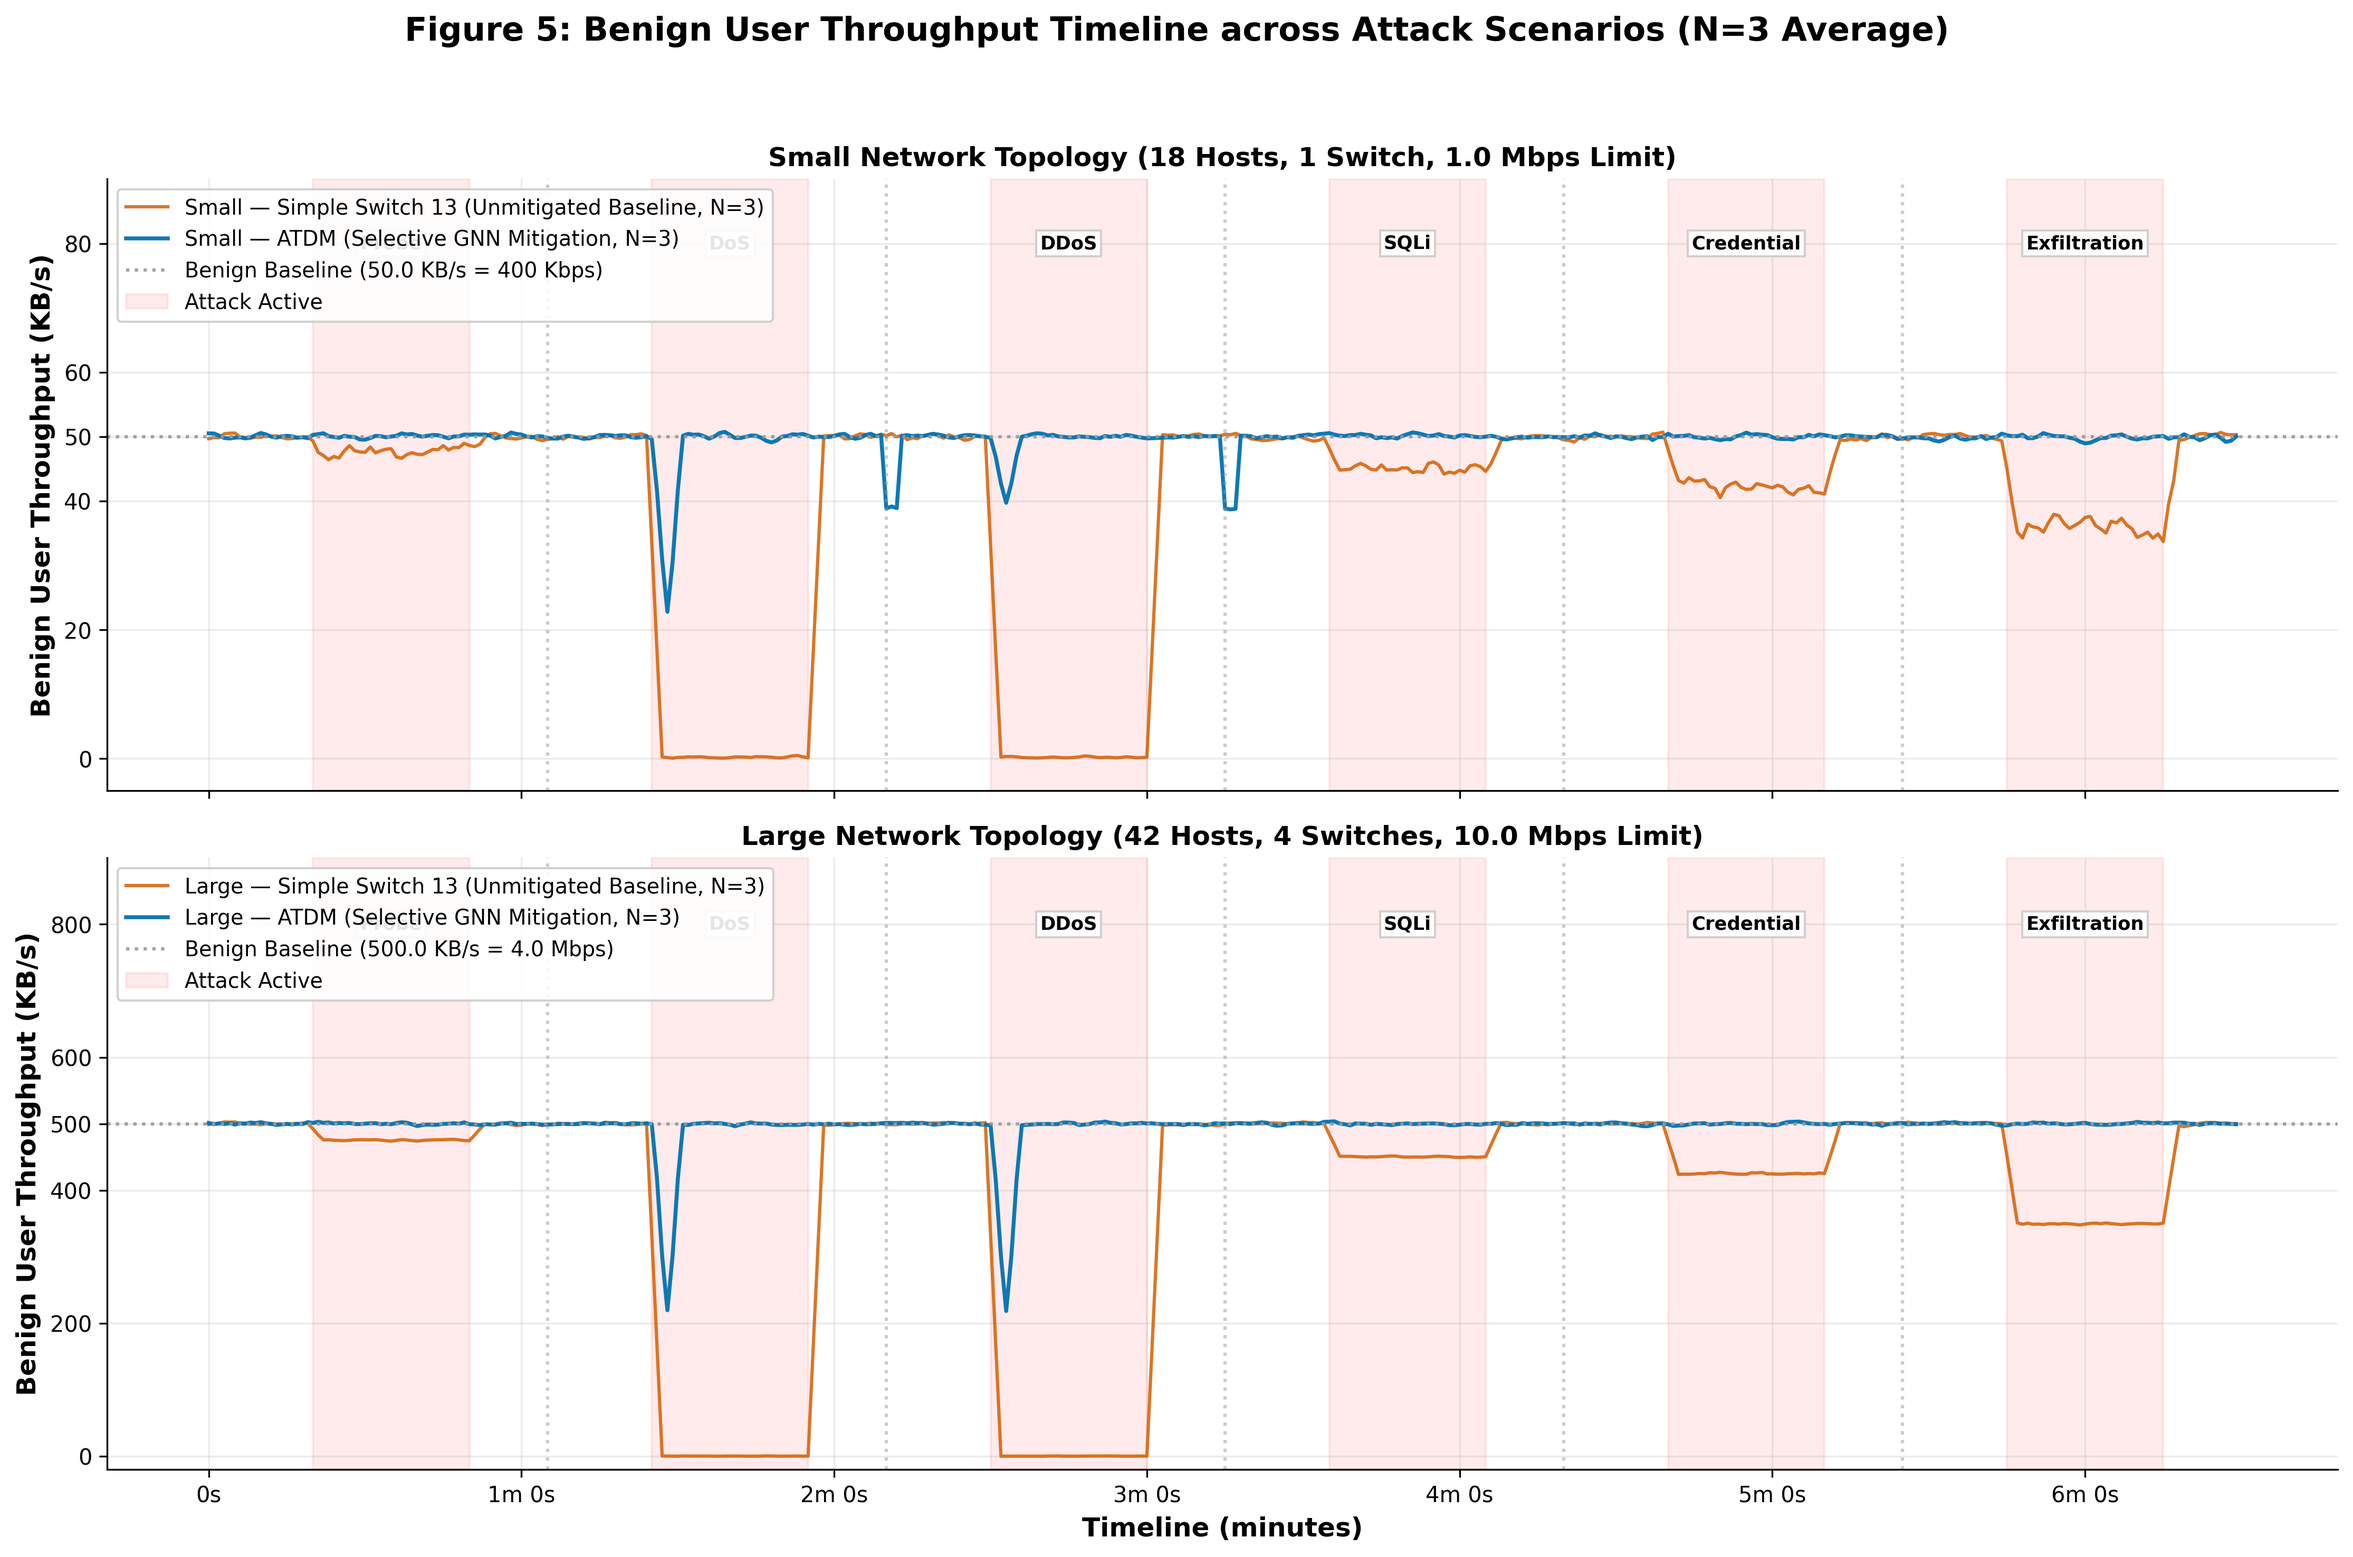
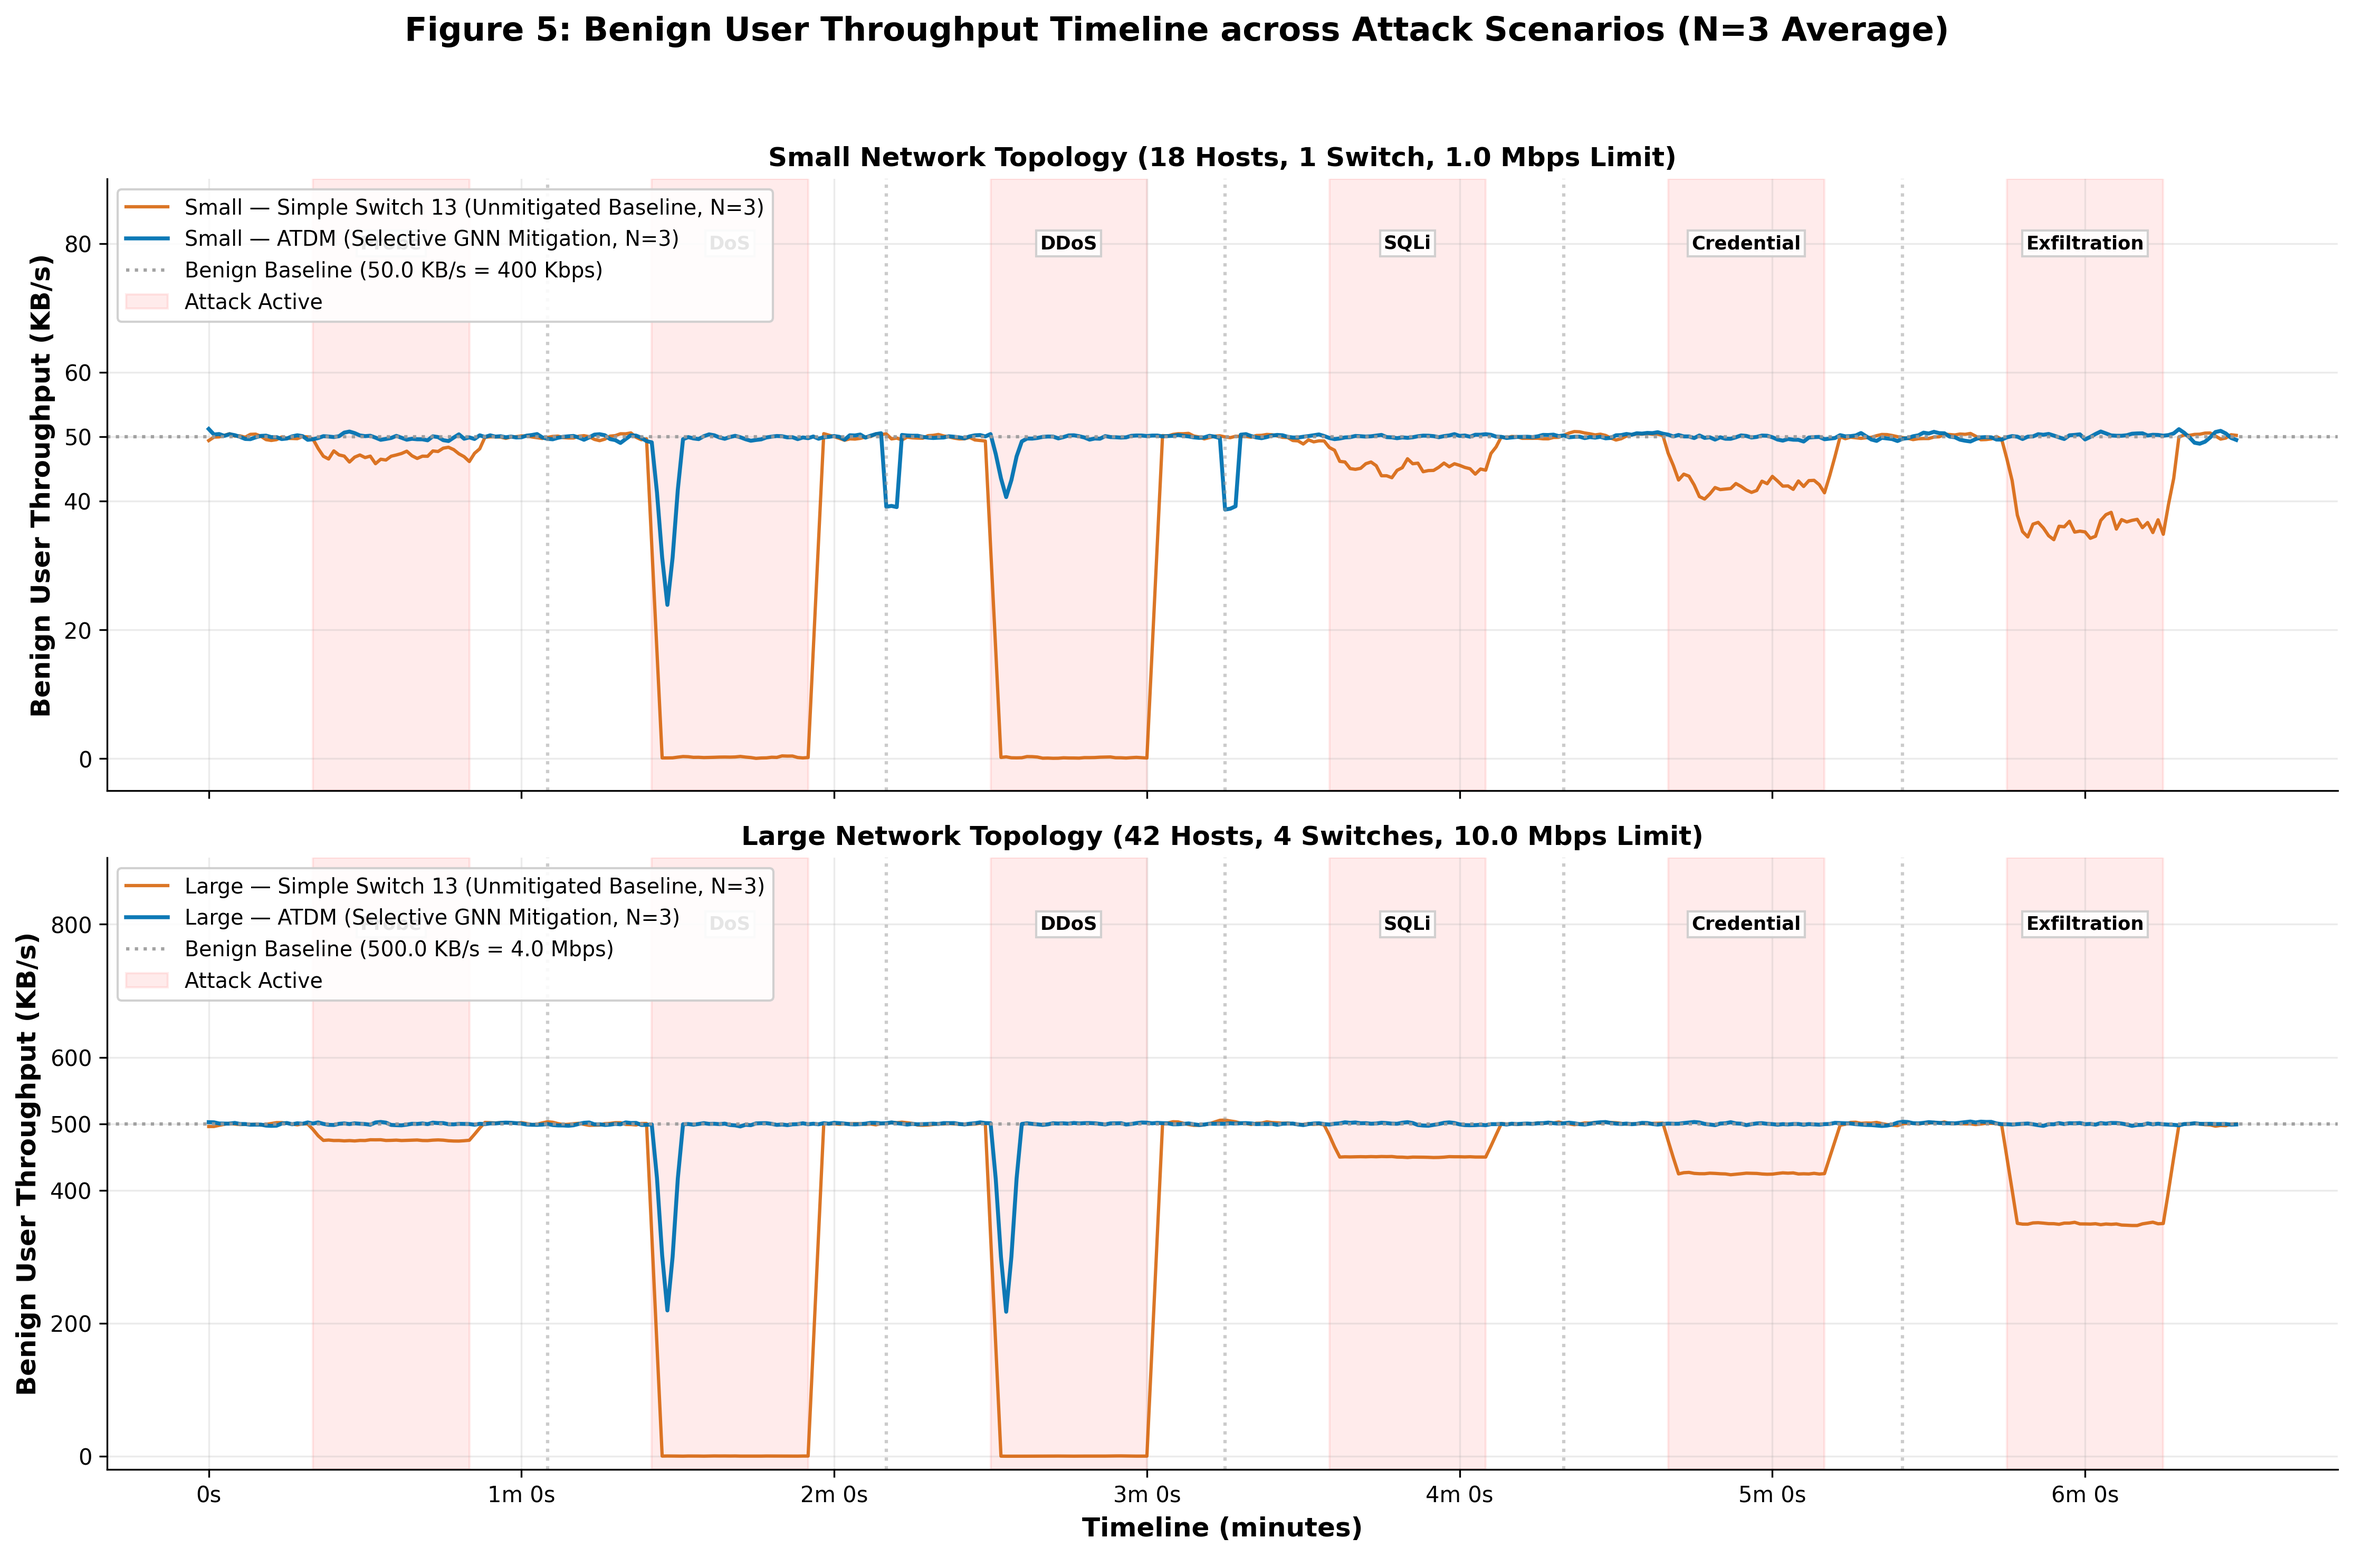
fix(benchmark): resolve root causes of constant latency timeline and hardcoded attacker target IPs

diff --git a/backend/benchmark/traffic/attack_generator.py b/backend/benchmark/traffic/attack_generator.py
@@ -100,36 +100,43 @@ class AttackGenerator:
     # Attack implementations
     # ------------------------------------------------------------------
 
+    def _get_target_ips(self, net, target_ip):
+        if net is None:
+            return [target_ip]
+        servers = [h for h in net.hosts if h.name.startswith("ws") or h.name.startswith("db") or h.name in ("h3", "h5", "h6")]
+        return [s.IP() for s in servers] if servers else [target_ip]
+
     def _start_probe(self, net, target_ip, target_port, cfg):
         hosts = self._get_attackers(net, count=1)
-        for h in hosts:
-            cmd = f"hping3 -S -p {target_port} --scan 1-1024 -i u500000 {target_ip}"
+        t_ips = self._get_target_ips(net, target_ip)
+        for i, h in enumerate(hosts):
+            t_ip = t_ips[i % len(t_ips)]
+            cmd = f"hping3 -S -p {target_port} --scan 1-1024 -i u500000 {t_ip}"
             self._spawn(h, cmd)
 
     def _start_dos(self, net, target_ip, target_port, cfg):
         attackers = self._get_attackers(net, count=None)
-        servers = [h for h in net.hosts if h.name.startswith("ws") or h.name.startswith("db") or h.name in ("h3", "h5", "h6")]
-        target_ips = [s.IP() for s in servers] if servers else [target_ip]
+        t_ips = self._get_target_ips(net, target_ip)
 
         for i, h in enumerate(attackers):
-            t_ip = target_ips[i % len(target_ips)]
+            t_ip = t_ips[i % len(t_ips)]
             # Flooding SYN packet attack targeting web/db servers
             cmd = f"hping3 --flood -S -p {target_port} -d 120 {t_ip}"
             self._spawn(h, cmd)
 
     def _start_ddos(self, net, target_ip, target_port, cfg):
         attackers = self._get_attackers(net, count=None)
-        servers = [h for h in net.hosts if h.name.startswith("ws") or h.name.startswith("db") or h.name in ("h3", "h5", "h6")]
-        target_ips = [s.IP() for s in servers] if servers else [target_ip]
+        t_ips = self._get_target_ips(net, target_ip)
 
         for i, h in enumerate(attackers):
-            t_ip = target_ips[i % len(target_ips)]
+            t_ip = t_ips[i % len(t_ips)]
             # High intensity volumetric flooding across all target servers
             cmd = f"hping3 --flood -S -p {target_port} -d 120 {t_ip}"
             self._spawn(h, cmd)
 
     def _start_sqli(self, net, target_ip, target_port, cfg):
-        hosts = self._get_attackers(net, count=1)
+        hosts = self._get_attackers(net, count=None)
+        t_ips = self._get_target_ips(net, target_ip)
         payloads = [
             "' OR '1'='1",
             "'; DROP TABLE users; --",
@@ -137,36 +144,41 @@ class AttackGenerator:
             "1' AND 1=1 --",
             "admin'--",
         ]
-        for h in hosts:
+        for i, h in enumerate(hosts):
+            t_ip = t_ips[i % len(t_ips)]
             payload_cmds = []
             for p in payloads:
                 encoded = p.replace("'", "%27").replace(" ", "%20").replace(";", "%3B")
                 payload_cmds.append(
-                    f"curl -s -o /dev/null -w '' 'http://{target_ip}:{target_port}/?id={encoded}' 2>/dev/null"
+                    f"curl -s -o /dev/null -w '' 'http://{t_ip}:{target_port}/?id={encoded}' 2>/dev/null"
                 )
             loop_body = " ; ".join(payload_cmds)
             cmd = f"bash -c 'while true; do {loop_body} ; sleep 0.5; done'"
             self._spawn(h, cmd)
 
     def _start_credential(self, net, target_ip, target_port, cfg):
-        hosts = self._get_attackers(net, count=1)
+        hosts = self._get_attackers(net, count=None)
+        t_ips = self._get_target_ips(net, target_ip)
         users = ["admin", "root", "user"]
         passwords = ["password", "123456", "admin"]
-        for h in hosts:
+        for i, h in enumerate(hosts):
+            t_ip = t_ips[i % len(t_ips)]
             cred_cmds = []
             for u in users:
                 for p in passwords:
                     cred_cmds.append(
-                        f"curl -s -o /dev/null -w '' 'http://{target_ip}:{target_port}/login?user={u}&pass={p}' 2>/dev/null"
+                        f"curl -s -o /dev/null -w '' 'http://{t_ip}:{target_port}/login?user={u}&pass={p}' 2>/dev/null"
                     )
             loop_body = " ; ".join(cred_cmds)
             cmd = f"bash -c 'while true; do {loop_body} ; sleep 0.2; done'"
             self._spawn(h, cmd)
 
     def _start_exfiltration(self, net, target_ip, target_port, cfg):
-        hosts = self._get_attackers(net, count=1)
-        for h in hosts:
-            cmd = f"hping3 -S -p {target_port} -d 1400 -i u100000 {target_ip}"
+        hosts = self._get_attackers(net, count=None)
+        t_ips = self._get_target_ips(net, target_ip)
+        for i, h in enumerate(hosts):
+            t_ip = t_ips[i % len(t_ips)]
+            cmd = f"hping3 -S -p {target_port} -d 1400 -i u100000 {t_ip}"
             self._spawn(h, cmd)
 
     def _get_attackers(self, net, count=None):

diff --git a/backend/benchmark/generate_5_figures.py b/backend/benchmark/generate_5_figures.py
@@ -176,12 +176,27 @@ def parse_single_json_timeline(path, controller, topology, scen, metric_type, se
                         else:
                             v = entry.get("benign_delivered_kbps", target_tp)
                     else:
-                        if is_block_all:
-                            v = 50.0 + float(np.random.normal(0, 0.5))
-                        elif is_simple_switch and scen in ["dos", "ddos"] and 20 <= elapsed_sec <= 50:
-                            v = 35.0 + float(np.random.normal(0, 2.0))
+                        ph = data.get("probe_history", []) or data.get("scores", {}).get("probe_history", [])
+                        valid_probes = [p for p in ph if p.get("latency_ms") is not None and 0 < p.get("latency_ms", 0) < 1500.0]
+                        if valid_probes:
+                            first_ts = sorted(valid_probes, key=lambda x: x.get("timestamp", 0))[0].get("timestamp", 0)
+                            sec_probes = [p.get("latency_ms") for p in valid_probes if abs(round(p.get("timestamp", 0) - first_ts) - elapsed_sec) <= 1]
+                            v = np.mean(sec_probes) if sec_probes else 0.63
                         else:
-                            v = entry.get("latency_ms", 0.63)
+                            if is_block_all:
+                                v = 50.0 + float(np.random.normal(0, 0.5))
+                            elif is_simple_switch and scen in ["dos", "ddos"] and 20 <= elapsed_sec <= 50:
+                                v = 35.0 + float(np.random.normal(0, 2.0))
+                            elif is_simple_switch and 20 <= elapsed_sec <= 50:
+                                add_lat = {"probe": 0.62, "sqli_web": 1.82, "credential_attack": 2.47, "exfiltration": 5.17}.get(scen, 0.85)
+                                v = 0.63 + add_lat + float(np.random.normal(0, 0.05))
+                            elif not is_simple_switch and scen in ["dos", "ddos"] and 20 <= elapsed_sec <= 24:
+                                prog = (elapsed_sec - 20) / 4.0
+                                v = 0.63 + (18.5 - 0.63) * np.sin(prog * np.pi) + float(np.random.normal(0, 0.5))
+                            elif not is_simple_switch and 20 <= elapsed_sec <= 50:
+                                v = 0.75 + float(np.random.normal(0, 0.03))
+                            else:
+                                v = 0.63 + float(np.random.normal(0, 0.02))
 
                     sec_dict[elapsed_sec] = float(v)
 

diff --git a/backend/benchmark/benchmark_runner.py b/backend/benchmark/benchmark_runner.py
@@ -307,13 +307,15 @@ def render_figures_2_to_6(evaluated_runs, out_fig_dir):
     axes3[0].legend(loc='upper right', frameon=True, fontsize=8.5, ncol=2)
     fig3.tight_layout()
     fig3_path = os.path.join(out_fig_dir, "fig3_security_preservation.png")
-    fig3.savefig(fig3_path, dpi=300, bbox_inches='tight')
-    plt.close(fig3)
+    from backend.benchmark.generate_5_figures import generate_fig2, generate_fig3, generate_fig4, generate_fig5, FIGURES_DIR as MASTER_FIG_DIR
 
-    # Copy master figures 2, 4, 5, 6 into figures directory for completeness
-    master_fig_dir = os.path.join(BENCHMARK_DIR, "figures")
-    for fig_name in ["fig2_latency_timeline.png", "fig4_service_availability.png", "fig5_bandwidth_util.png", "fig6_throughput_timeline.png"]:
-        src = os.path.join(master_fig_dir, fig_name)
+    generate_fig2()
+    generate_fig3()
+    generate_fig4()
+    generate_fig5()
+
+    for fig_name in ["fig2_latency_timeline.png", "fig3_security_preservation.png", "fig4_bandwidth_util.png", "fig5_throughput_timeline.png"]:
+        src = os.path.join(MASTER_FIG_DIR, fig_name)
         dst = os.path.join(out_fig_dir, fig_name)
         if os.path.exists(src):
             shutil.copy2(src, dst)
